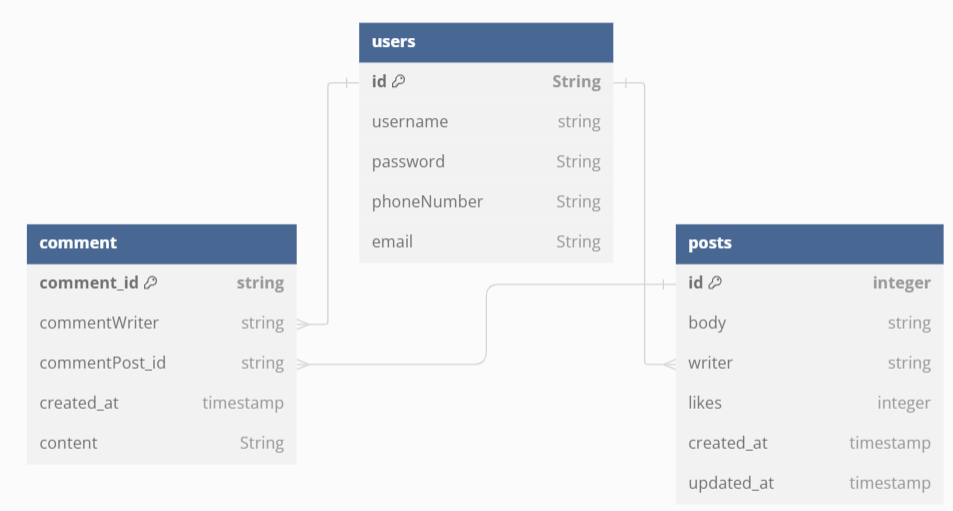
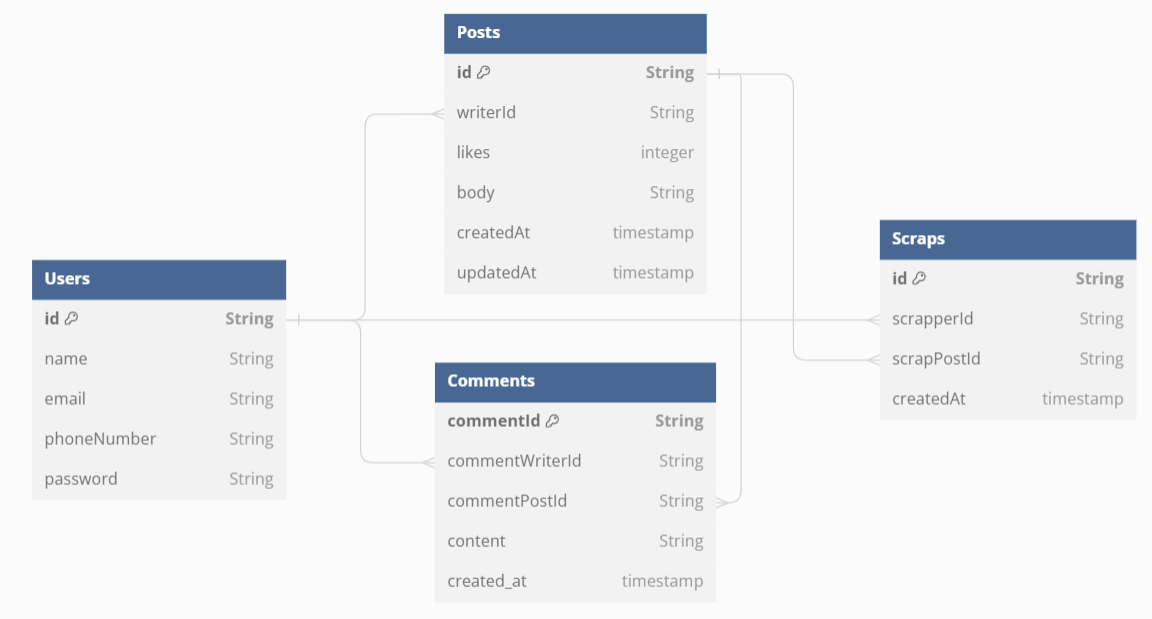
3주차 리드미 수정

diff --git a/README.md b/README.md
@@ -47,11 +47,42 @@ app.use((req, res, next) => {
 ## 3주차
 ### 데이터 베이스 사용하는 간단 게시판 만들기
 
-mysql과 prisma를 사용하여 데이터베이스를 사용하는 간단한 게시판 만들기를 수행함
+mysql과 prisma를 사용하여 데이터베이스를 사용하는 게시판 만들기를 수행함
 
 - ERD 모델
   ![3주차ERD모델](./3주차_erd모델.png)
 
+
+#### database
+-  Users
+![Users](./users캡처.png)
+
+-  Posts
+![Posts](./posts캡처.png)
+
+-  Comments
+![Comments](./comments캡처.png)
+
+- Scraps
+![Scraps](./scraps캡처.png)
+
 #### 새로 알게된 점 
 -  `"type": "module"` 속성이 있으면 Node.js는 해당 프로젝트 파일을 ES 모듈로 처리함. 이에 따라서 require문도 사용 불가
--  
+
+#### 막혔던 부분
+- 사용자들의 암호를 bcrypt을 이용하여 암호화를 수행하다가 이미 시딩된 정보들은 암호화가 되어있지 않아서 이를 암호화하다 오류발생... ☞ 오류해결하지 못해서 다시 암호화 이전으로 돌림
+
+-  의도되지 않은 프로퍼티 사용됨 에러
+스키마에서 Users 로 정의했기 때문에 users로 받아야 undefined 에러가 발생하지 않는다. user로 되어있어서 계속 에러가 뜸. 프리즈마 모델 이름은 보통 단수를 사용한다고 한다. 알아두자.
+![오류 화면](./의도되지않은프로퍼티에러.png)
+
+-  http 요청 과정에서 header관련 에러 발생
+![오류 화면](./http요청에러.png)
+http 요청 과정에서 헤더와 본문 사이에 빈줄이 한 줄 존재해야함
+
+
+#### 더보기
+- http 요청 처리는 보통 `postman`을 많이 이용한다고 한다. 다음부터는 restClient 보다는이를 이용해서 해봐야겠다. 
+- prisma는 비관계형 데이터베이스인 mongoDB에 최적화되어있는 ORM이라고 한다. 관계형 데이터 베이스에 맞는 걸로 사용해보자.
+- 커밋 메세지도 정해진 방법이 있다고 하는 데 이에 맞춰서 작성하도록 해보자.
+- 좋아요 기능도 다시 만들어 보자.
